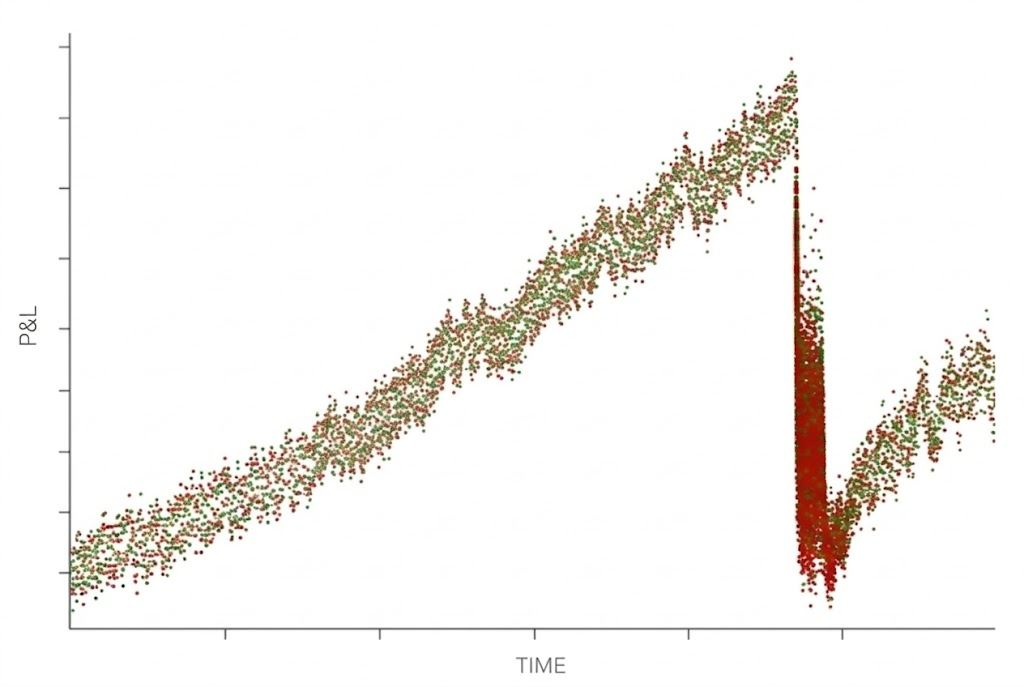
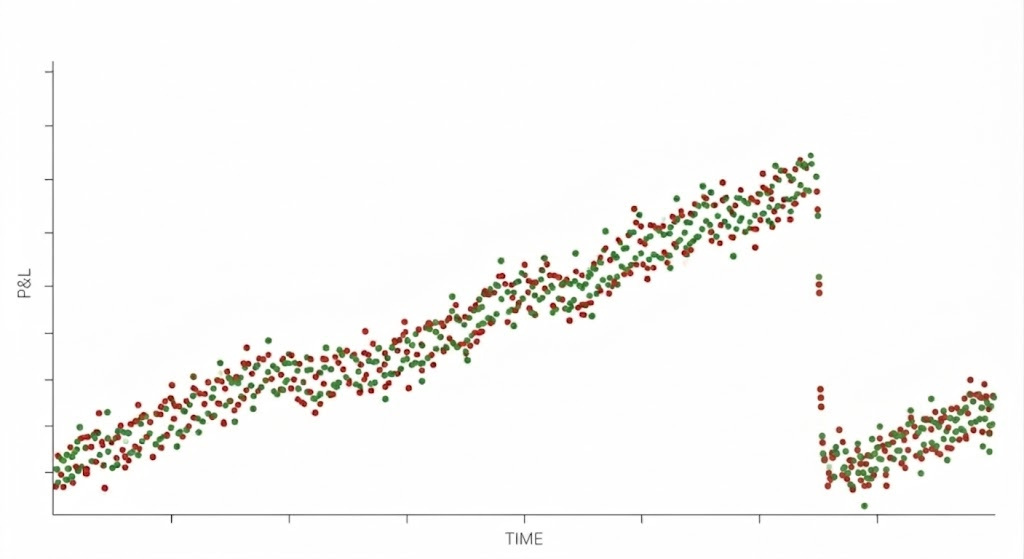
meetup-2026

diff --git a/meetup-2026/index.html b/meetup-2026/index.html
@@ -56,7 +56,7 @@ Kris Jusiak
 <!-- .element: style="text-align:left" -->
 
 <p align="left">
-<img src="images/pnl.jpeg" style="width: 85%; background:none; border:none; box-shadow:none; margin: 0px 0px;" />
+<img src="images/mm.jpeg" style="width: 88%; background:none; border:none; box-shadow:none; margin: 0px 0px;" />
 </p>
 
 ```sh
@@ -122,12 +122,16 @@ for day in date_range(date(2020, 1, 1), date(2026, 10, 01)):
 ### Solutions / Hardware
 <!-- .element: style="text-align:left" -->
 
+```cpp
+<-- Latency / Throughput -->
+```
+<!-- .element: style="text-align:left; font-size:10px;" -->
 <p align="left">
-<img src="images/hw.png" style="width: 89%; background:none; border:none; box-shadow:none; margin: 0px 0px;" />
+<img src="images/hw.jpeg" style="width: 80%; background:none; border:none; box-shadow:none; margin: 0px 0px;" />
 </p>
 
 ```cpp
-- Time to market (winner takes all, scaling law)
+- Time to market (winner takes 'all', scaling law)
 - Know your hardware (colocated, no users)
 - Easier to optimize (deterministic hardware, performance monitoring)
 ...
@@ -199,7 +203,7 @@ while (true) {
 <!-- .element: style="text-align:left; font-size:14px;" -->
 
 ```
- CPU                      Intel        Amd          Arm                         HFT friendly
+ CPU                      Intel        Amd          Arm                         HFT 'friendly'
   ├─ Timestamp Counter    RDTSC/RDTSCP RDTSC/RDTSCP CNTVCT_EL0/CNTPCT_EL0        ├─ ✅
   ├─ Performance Counters RDPMC        RDPMC        PMCCNTR_EL0/PMEVCNTRN_EL0    ├─ ✅
   ├─ Event sampling       PEBS         IBS          SPE                          ├─ ❌ (applies to PGO)
@@ -277,11 +281,11 @@ book:                                           402000                       // 
        float: right !important;
        position: relative !important;
        z-index: 999 !important;
-       width: 30%;
+       width: 35%;
        background: white;
        border: none;
        box-shadow: none;
-       margin: -25% 2% 20px 20px;
+       margin: -21.5% 0.2% 20px 20px;
      " />
 
 ```cpp
